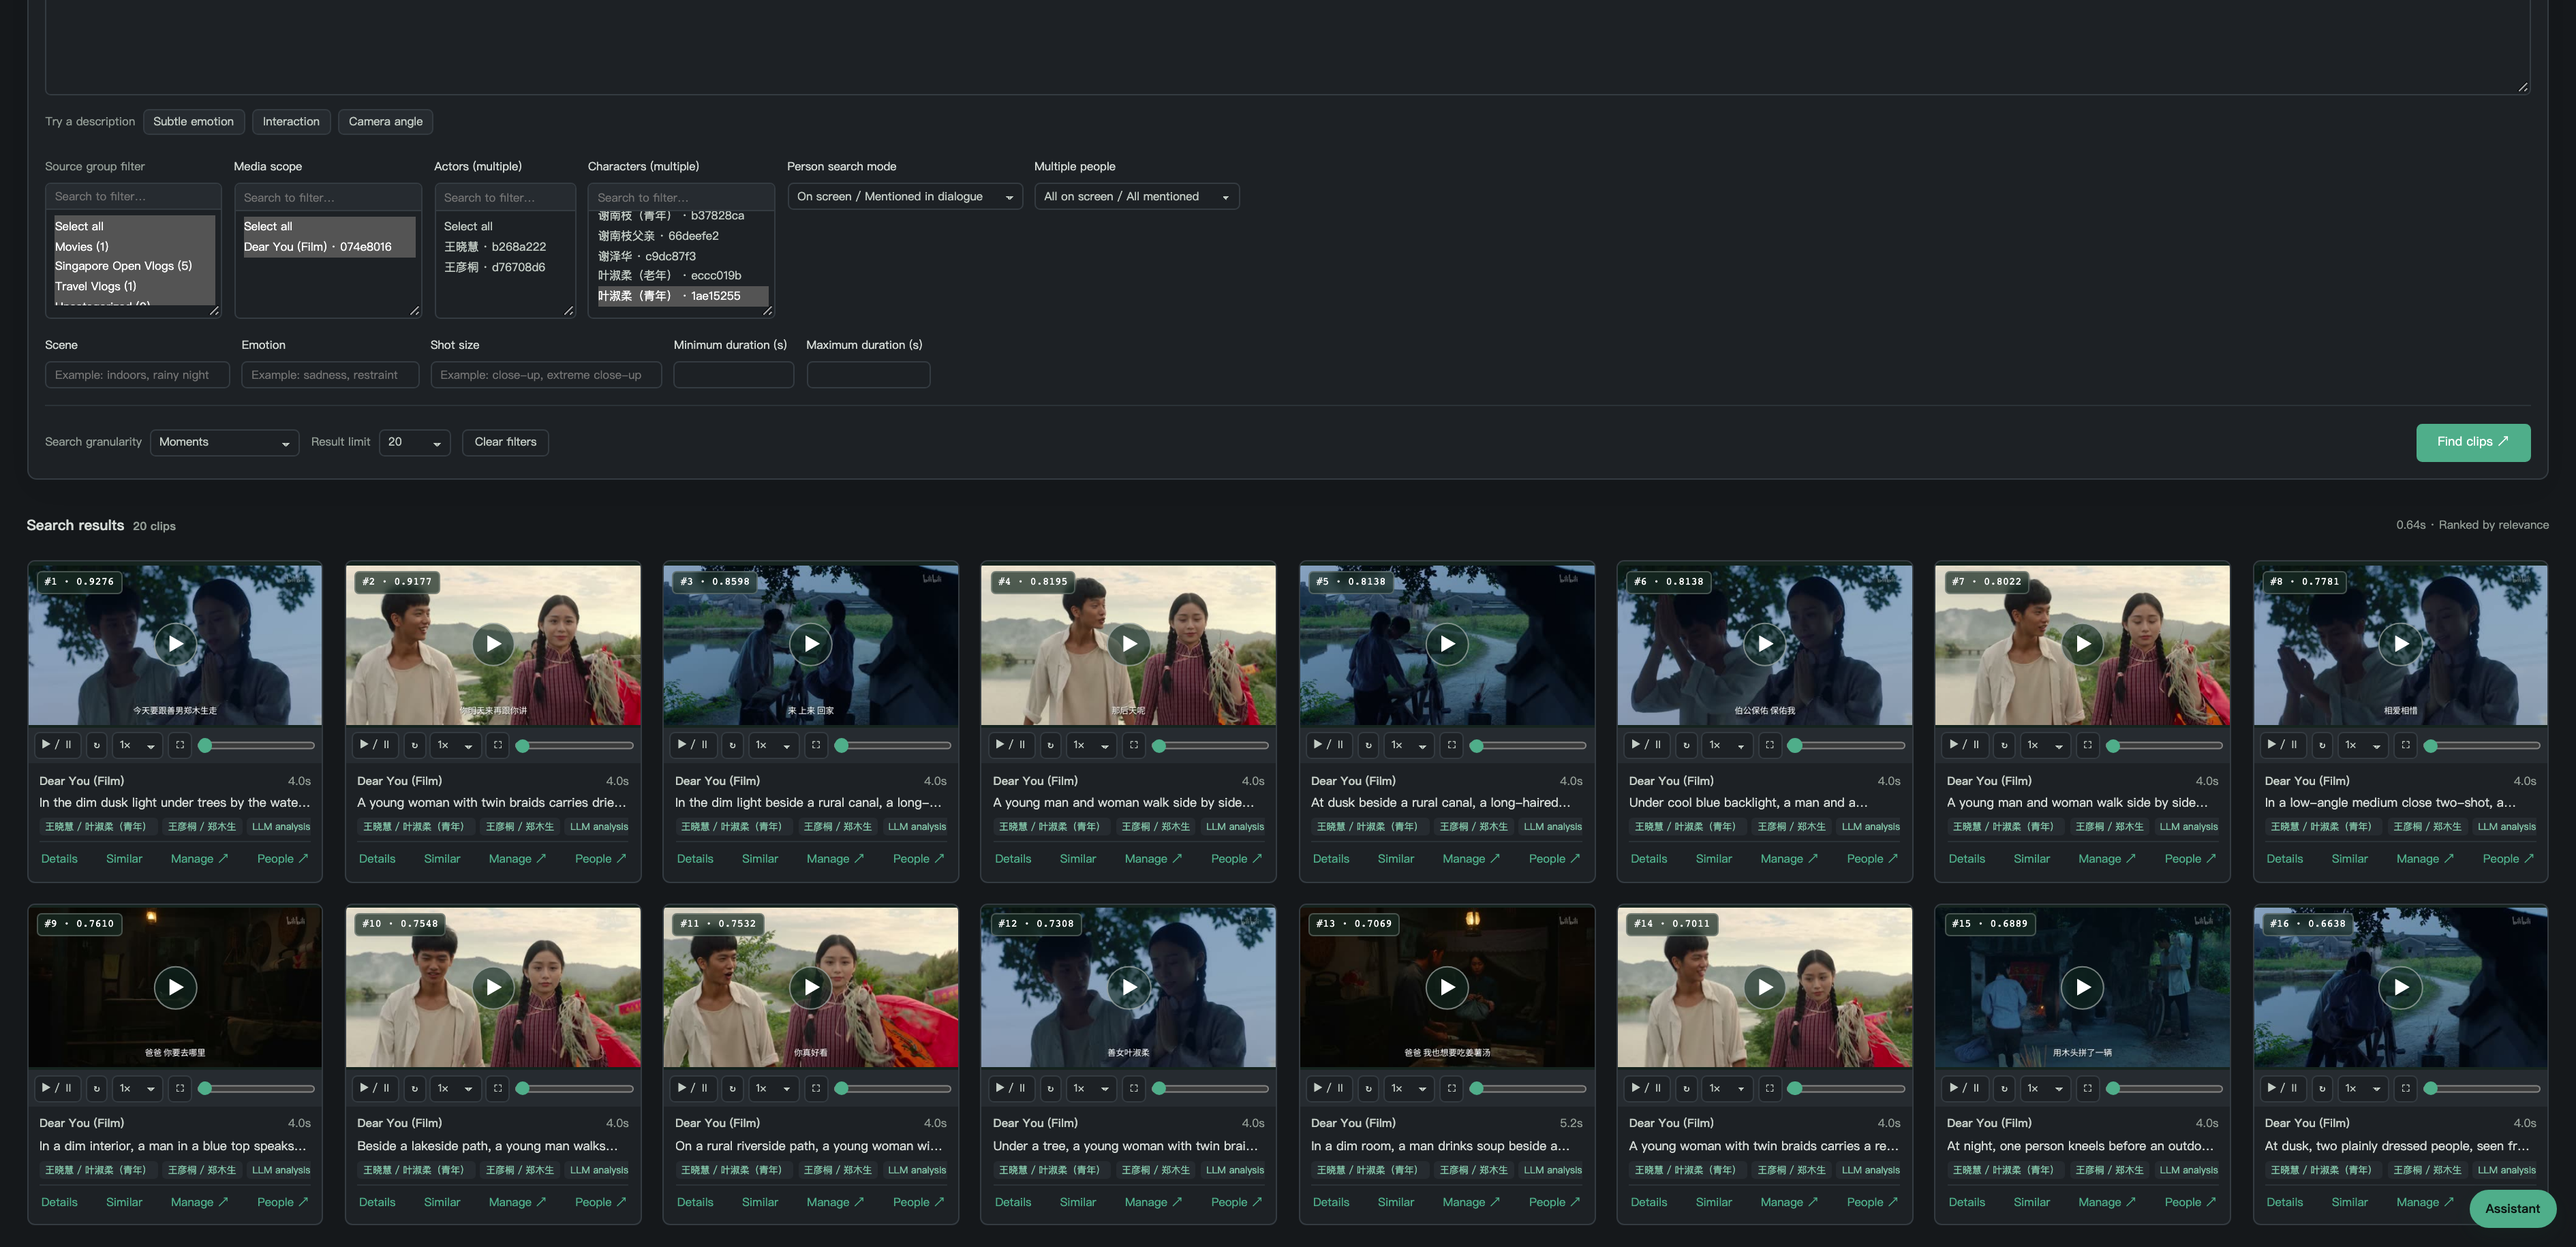
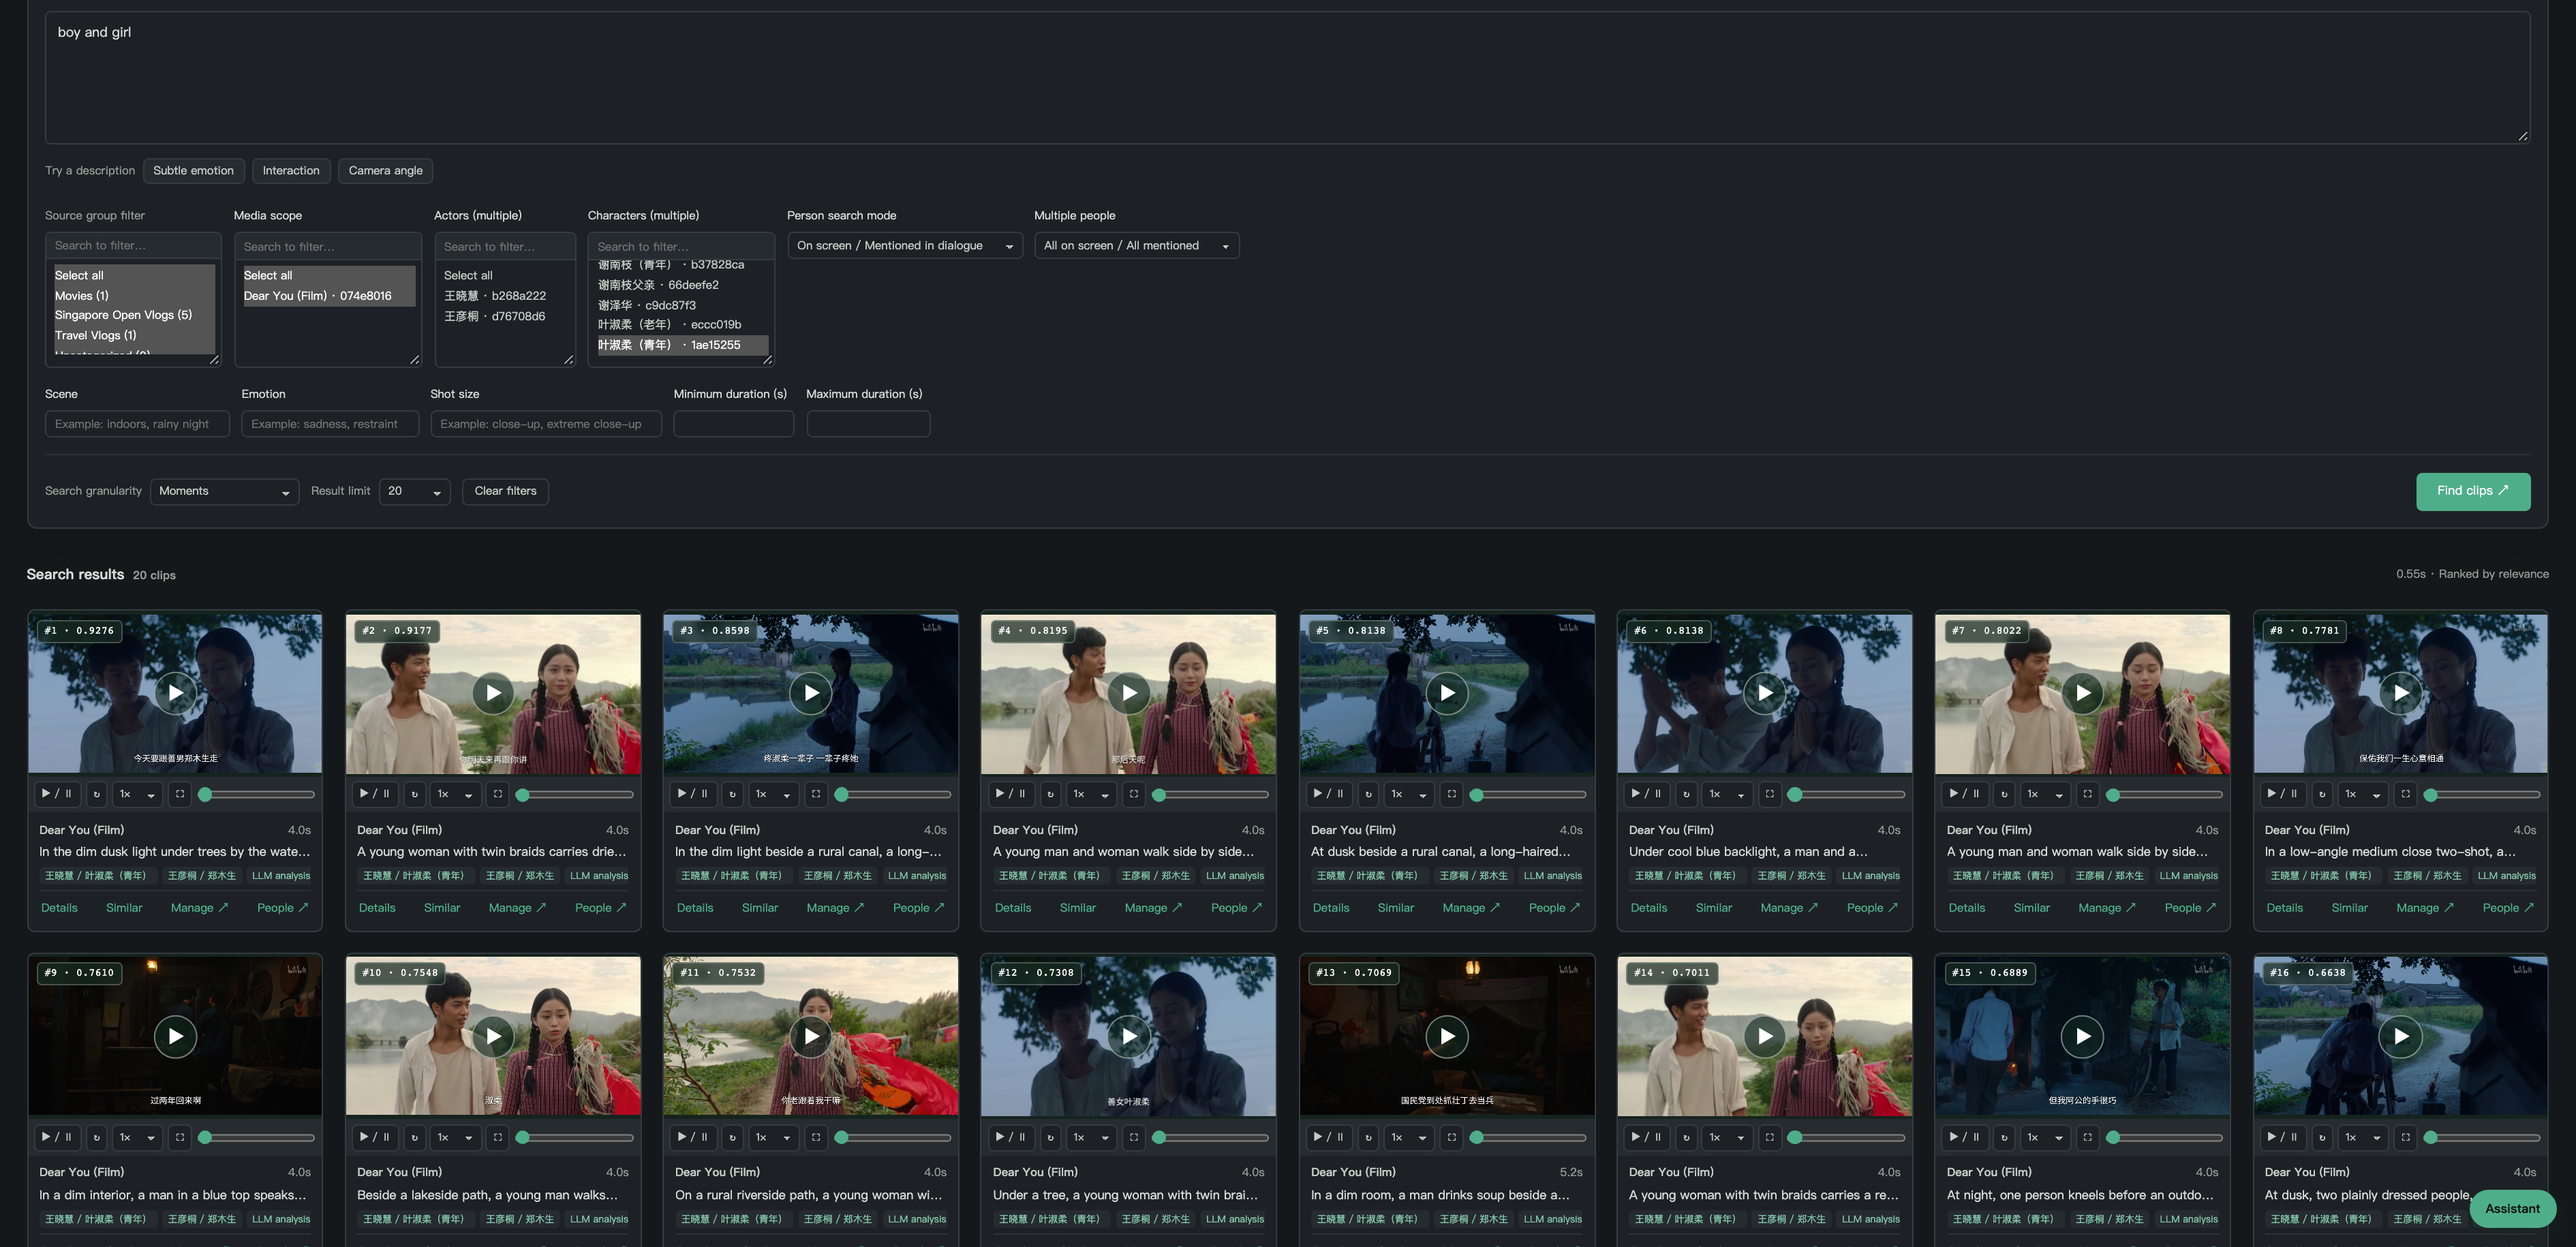
docs: 修复文字+人物检索图的关键词可见性；新增分镜五阶段连播 GIF
- search-text-and-person 复用“查询框锚顶 + 底部行补全/整行移出”算法，搜索词回到视口
- 新增 studio-stage-{content,picture,tts,select,render}.png 与 gallery-storyboard.gif：
  同一分镜的五个阶段自动连播，顶部从分镜卡片条起、尽量多显示阶段详情
- 双 README 分镜编辑区块改为连播 GIF + 逐张原图（保留原总览图）

Changed region(s): [[0.0, 0.0934, 0.9989, 0.9967], [0.0312, 0.0, 0.0624, 0.0311]]

diff --git a/scripts/build-readme-gallery.py b/scripts/build-readme-gallery.py
@@ -101,6 +101,18 @@ GROUPS: tuple[Group, ...] = (
         ),
     ),
     Group(
+        key="storyboard",
+        zh="分镜工作台：同一分镜的五个阶段",
+        en="Storyboard workspace: five stages of one shot",
+        frames=(
+            Frame("studio-stage-content.png", "阶段：文案与查询", "Stage: script and query"),
+            Frame("studio-stage-picture.png", "阶段：召回", "Stage: recall"),
+            Frame("studio-stage-tts.png", "阶段：配音", "Stage: narration TTS"),
+            Frame("studio-stage-select.png", "阶段：选片与对齐", "Stage: selection and alignment"),
+            Frame("studio-stage-render.png", "阶段：渲染", "Stage: render"),
+        ),
+    ),
+    Group(
         key="agent",
         zh="Agent 会话：文案、逐镜生产、成片预览与分镜合并",
         en="Agent session: scripting, production, build preview, shot merging",

diff --git a/README.md b/README.md
@@ -147,9 +147,18 @@ Studio turns an idea into a finished video using your library as raw material. T
 **Scripted, storyboarded, shot-by-shot production.** The writer model drafts a script from your outline using a script template (built-in or your own, with optional reference documents), then the storyboard split produces one row per shot.
 
 <details>
-<summary>Storyboard rows with narration, duration, source, and stage status</summary>
+<summary>Storyboard rows with narration, duration, source, and stage status; five stages of one shot — 5 stage screenshots, auto-playing</summary>
 
-![Storyboard rows with narration, duration, source, and stage status](docs/assets/studio-storyboard.png)
+![Auto-playing screenshots: storyboard workspace and the five stages of one shot (script & query, recall, narration, selection & alignment, render)](docs/assets/gallery-storyboard.gif)
+
+Full-size images:
+
+1. [Storyboard workspace overview](docs/assets/studio-storyboard.png)
+2. [Stage: script and query](docs/assets/studio-stage-content.png)
+3. [Stage: recall](docs/assets/studio-stage-picture.png)
+4. [Stage: narration TTS](docs/assets/studio-stage-tts.png)
+5. [Stage: selection and alignment](docs/assets/studio-stage-select.png)
+6. [Stage: render](docs/assets/studio-stage-render.png)
 
 </details>
 
